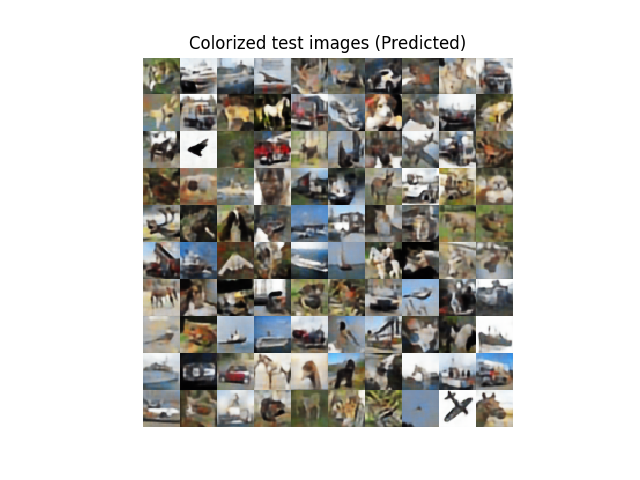
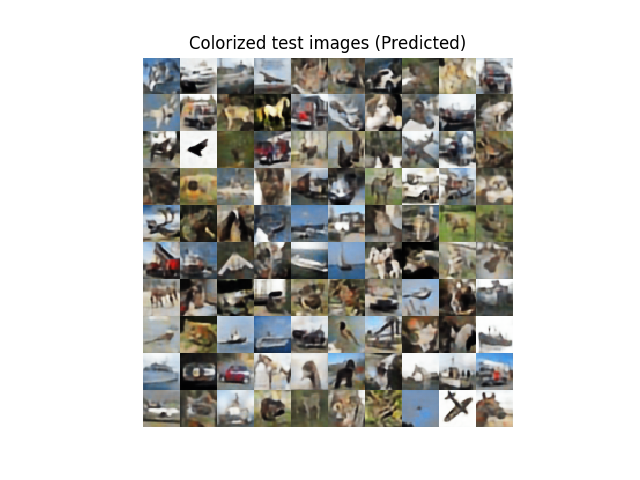
edits and code optimizations

diff --git a/chapter3-autoencoders/colorization-autoencoder-cifar10-3.4.1.py b/chapter3-autoencoders/colorization-autoencoder-cifar10-3.4.1.py
@@ -12,9 +12,8 @@ Grayscale Images --> Colorization --> Color Images
 from __future__ import absolute_import
 from __future__ import division
 from __future__ import print_function
-import numpy as np
-import keras
-from keras.layers import Activation, Dense, Input
+
+from keras.layers import Dense, Input
 from keras.layers import Conv2D, Flatten
 from keras.layers import Reshape, Conv2DTranspose
 from keras.models import Model
@@ -22,19 +21,22 @@ from keras.callbacks import ReduceLROnPlateau, ModelCheckpoint
 from keras.datasets import cifar10
 from keras.utils import plot_model
 from keras import backend as K
+
+import numpy as np
 import matplotlib.pyplot as plt
 import os
 
 
+# convert from color image (RGB) to grayscale
 def rgb2gray(rgb):
     return np.dot(rgb[...,:3], [0.299, 0.587, 0.114])
 
 
-# Load the CIFAR10 data.
+# load the CIFAR10 data.
 (x_train, _), (x_test, _) = cifar10.load_data()
 
-# Input image dimensions.
-# We assume data format "channels_last".
+# input image dimensions.
+# we assume data format "channels_last".
 img_rows = x_train.shape[1]
 img_cols = x_train.shape[2]
 channels = x_train.shape[3]
@@ -44,7 +46,7 @@ save_dir = os.path.join(os.getcwd(), imgs_dir)
 if not os.path.isdir(save_dir):
         os.makedirs(save_dir)
 
-# Display the 1st 100 input images (color and gray)
+# display the 1st 100 input images (color and gray)
 imgs = x_test[:100]
 imgs = imgs.reshape((10, 10, img_rows, img_cols, channels))
 imgs = np.vstack([np.hstack(i) for i in imgs])
@@ -80,18 +82,17 @@ x_test = x_test.reshape(x_test.shape[0], img_rows, img_cols, channels)
 x_train_gray = x_train_gray.reshape(x_train_gray.shape[0], img_rows, img_cols, 1)
 x_test_gray = x_test_gray.reshape(x_test_gray.shape[0], img_rows, img_cols, 1)
 
-# Network parameters
+# network parameters
 input_shape = (img_rows, img_cols, 1)
 batch_size = 128
 kernel_size = 3
 filters = 32
 latent_dim = 256
 
-# Build the autoencoder model
-# First build the encoder model
+# build the autoencoder model
+# first build the encoder model
 inputs = Input(shape=input_shape, name='encoder_input')
 x = inputs
-# Stack of Conv2D blocks
 for i in range(3):
     filters = filters * 2
     x = Conv2D(filters=filters,
@@ -100,23 +101,22 @@ for i in range(3):
                activation='relu',
                padding='same')(x)
 
-# Shape info needed to build decoder model
+# shape info needed to build decoder model
 shape = K.int_shape(x)
 
-# Generate a latent vector
+# generate a latent vector
 x = Flatten()(x)
 latent = Dense(latent_dim, name='latent_vector')(x)
 
-# Instantiate encoder model
+# instantiate encoder model
 encoder = Model(inputs, latent, name='encoder')
 encoder.summary()
 
-# Build the decoder model
+# build the decoder model
 latent_inputs = Input(shape=(latent_dim,), name='decoder_input')
 x = Dense(shape[1]*shape[2]*shape[3])(latent_inputs)
 x = Reshape((shape[1], shape[2], shape[3]))(x)
 
-# Stack of Transposed Conv2D blocks
 for i in range(3):
     x = Conv2DTranspose(filters=filters,
                         kernel_size=kernel_size,
@@ -125,22 +125,22 @@ for i in range(3):
                         padding='same')(x)
     filters //= 2
 
-x = Conv2DTranspose(filters=channels,
-                    kernel_size=kernel_size,
-                    padding='same')(x)
+outputs = Conv2DTranspose(filters=channels,
+                          kernel_size=kernel_size,
+                          activation='sigmoid',
+                          padding='same',
+                          name='decoder_output')(x)
 
-outputs = Activation('sigmoid', name='decoder_output')(x)
-
-# Instantiate decoder model
+# instantiate decoder model
 decoder = Model(latent_inputs, outputs, name='decoder')
 decoder.summary()
 
-# Autoencoder = Encoder + Decoder
-# Instantiate autoencoder model
+# autoencoder = encoder + decoder
+# instantiate autoencoder model
 autoencoder = Model(inputs, decoder(encoder(inputs)), name='autoencoder')
 autoencoder.summary()
 
-# Prepare model saving directory.
+# prepare model saving directory.
 save_dir = os.path.join(os.getcwd(), 'saved_models')
 model_name = 'colorized_ae_model.{epoch:03d}.h5'
 if not os.path.isdir(save_dir):
@@ -162,7 +162,7 @@ autoencoder.compile(loss='mse', optimizer='adam')
 
 callbacks = [lr_reducer, checkpoint]
 
-# Train the autoencoder
+# train the autoencoder
 autoencoder.fit(x_train_gray,
                 x_train,
                 validation_data=(x_test_gray, x_test),
@@ -170,10 +170,10 @@ autoencoder.fit(x_train_gray,
                 batch_size=batch_size,
                 callbacks=callbacks)
 
-# Predict the autoencoder output from test data
+# predict the autoencoder output from test data
 x_decoded = autoencoder.predict(x_test_gray)
 
-# Display the 1st 100 colorized images
+# display the 1st 100 colorized images
 imgs = x_decoded[:100]
 imgs = imgs.reshape((10, 10, img_rows, img_cols, channels))
 imgs = np.vstack([np.hstack(i) for i in imgs])

diff --git a/chapter3-autoencoders/denoising-autoencoder-mnist-3.3.1.py b/chapter3-autoencoders/denoising-autoencoder-mnist-3.3.1.py
@@ -19,8 +19,8 @@ of input data for low-dim visualization like PCA or TSNE.
 from __future__ import absolute_import
 from __future__ import division
 from __future__ import print_function
-import keras
-from keras.layers import Activation, Dense, Input
+
+from keras.layers import Dense, Input
 from keras.layers import Conv2D, Flatten
 from keras.layers import Reshape, Conv2DTranspose
 from keras.models import Model
@@ -41,7 +41,7 @@ x_test = np.reshape(x_test, [-1, image_size, image_size, 1])
 x_train = x_train.astype('float32') / 255
 x_test = x_test.astype('float32') / 255
 
-# Generate corrupted MNIST images by adding noise with normal dist
+# generate corrupted MNIST images by adding noise with normal dist
 # centered at 0.5 and std=0.5
 noise = np.random.normal(loc=0.5, scale=0.5, size=x_train.shape)
 x_train_noisy = x_train + noise
@@ -51,20 +51,20 @@ x_test_noisy = x_test + noise
 x_train_noisy = np.clip(x_train_noisy, 0., 1.)
 x_test_noisy = np.clip(x_test_noisy, 0., 1.)
 
-# Network parameters
+# network parameters
 input_shape = (image_size, image_size, 1)
 batch_size = 128
 kernel_size = 3
 latent_dim = 16
-# Encoder/Decoder number of CNN layers and filters per layer
+# encoder/decoder number of CNN layers and filters per layer
 layer_filters = [32, 64]
 
-# Build the autoencoder model
-# First build the encoder model
+# build the autoencoder model
+# first build the encoder model
 inputs = Input(shape=input_shape, name='encoder_input')
 x = inputs
-# Stack of Conv2D blocks
-# Notes:
+# stack of Conv2D blocks
+# notes:
 # 1) Use Batch Normalization before ReLU on deep networks
 # 2) Use MaxPooling2D as alternative to strides>1
 # - faster but not as good as strides>1
@@ -75,24 +75,24 @@ for filters in layer_filters:
                activation='relu',
                padding='same')(x)
 
-# Shape info needed to build decoder model
+# shape info needed to build decoder model
 shape = K.int_shape(x)
 
-# Generate the latent vector
+# generate the latent vector
 x = Flatten()(x)
 latent = Dense(latent_dim, name='latent_vector')(x)
 
-# Instantiate encoder model
+# instantiate encoder model
 encoder = Model(inputs, latent, name='encoder')
 encoder.summary()
 
-# Build the decoder model
+# build the decoder model
 latent_inputs = Input(shape=(latent_dim,), name='decoder_input')
 x = Dense(shape[1] * shape[2] * shape[3])(latent_inputs)
 x = Reshape((shape[1], shape[2], shape[3]))(x)
 
-# Stack of Transposed Conv2D blocks
-# Notes:
+# stack of Transposed Conv2D blocks
+# notes:
 # 1) Use Batch Normalization before ReLU on deep networks
 # 2) Use UpSampling2D as alternative to strides>1
 # - faster but not as good as strides>1
@@ -103,34 +103,34 @@ for filters in layer_filters[::-1]:
                         activation='relu',
                         padding='same')(x)
 
-x = Conv2DTranspose(filters=1,
-                    kernel_size=kernel_size,
-                    padding='same')(x)
+outputs = Conv2DTranspose(filters=1,
+                          kernel_size=kernel_size,
+                          padding='same',
+                          activation='sigmoid',
+                          name='decoder_output')(x)
 
-outputs = Activation('sigmoid', name='decoder_output')(x)
-
-# Instantiate decoder model
+# instantiate decoder model
 decoder = Model(latent_inputs, outputs, name='decoder')
 decoder.summary()
 
-# Autoencoder = Encoder + Decoder
-# Instantiate autoencoder model
+# autoencoder = encoder + decoder
+# instantiate autoencoder model
 autoencoder = Model(inputs, decoder(encoder(inputs)), name='autoencoder')
 autoencoder.summary()
 
 autoencoder.compile(loss='mse', optimizer='adam')
 
-# Train the autoencoder
+# train the autoencoder
 autoencoder.fit(x_train_noisy,
                 x_train,
                 validation_data=(x_test_noisy, x_test),
                 epochs=20,
                 batch_size=batch_size)
 
-# Predict the autoencoder output from corrupted test images
+# predict the autoencoder output from corrupted test images
 x_decoded = autoencoder.predict(x_test_noisy)
 
-# Display the 1st 8 corrupted and denoised images
+# display the 1st 8 corrupted and denoised images
 rows, cols = 3, 9
 num = rows * cols
 imgs = np.concatenate([x_test[:num], x_test_noisy[:num], x_decoded[:num]])
